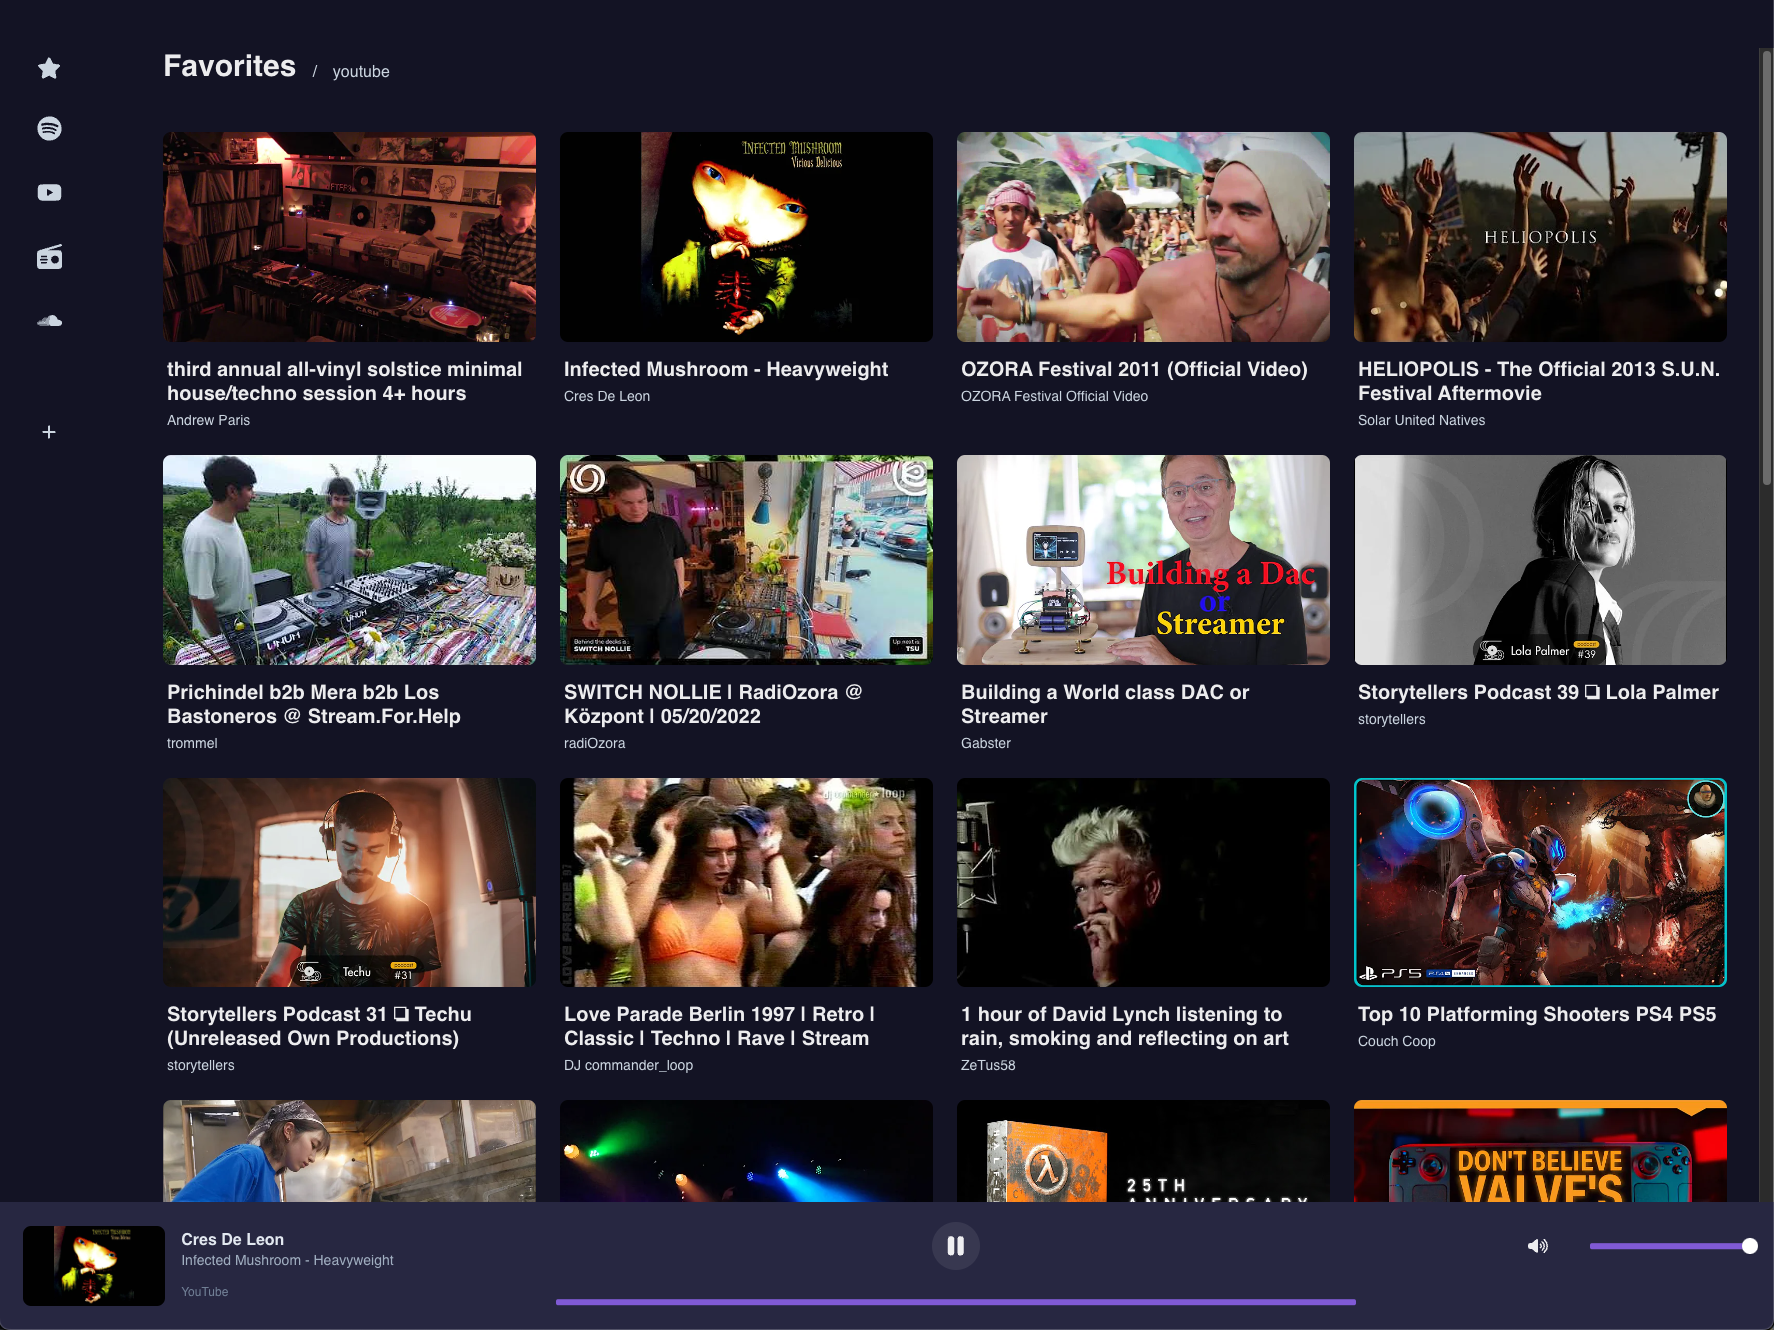
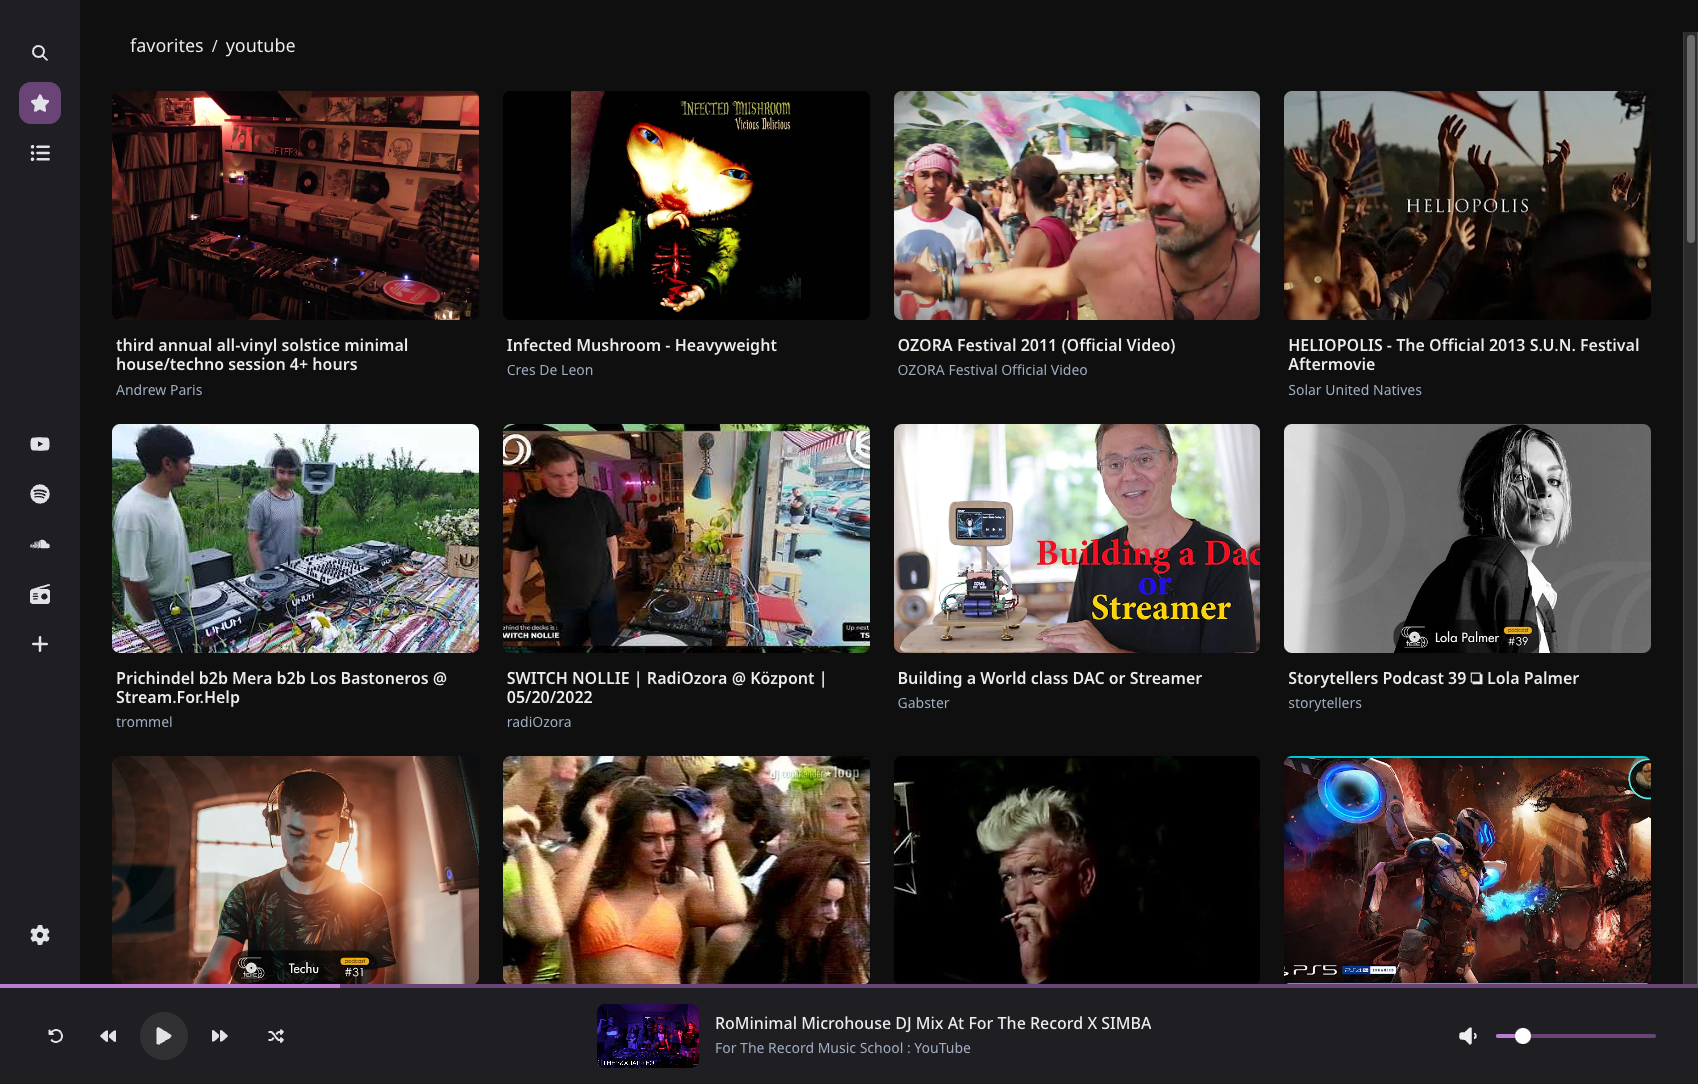
chore: tweak sizes, fonts, grid

diff --git a/src/ui/sidebar/Sidebar.tsx b/src/ui/sidebar/Sidebar.tsx
@@ -1,28 +1,65 @@
 import { Flex, IconButton } from '@chakra-ui/react'
 import { FunctionComponent } from 'react'
-import { FaGear, FaStar } from 'react-icons/fa6'
+import { FaGear, FaListUl, FaMagnifyingGlass, FaStar } from 'react-icons/fa6'
 import { MediaSources } from './MediaSources'
 
 export const Sidebar: FunctionComponent<unknown> = () => {
   return (
     <Flex
       direction={'column'}
+      align={'center'}
       px={'.75rem'}
-      pt={'5rem'}
+      pt={'2rem'}
       h={'full'}
       w={'5rem'}
-      minW={0}
+      gap={'.5rem'}
+      justify={'space-between'}
       bg={'#1F1F23'}
     >
-      <IconButton
-        aria-label="Home"
-        variant="ghost"
-        border="none"
-        fontSize={'1.25rem'}
-        color={'#E1E2E7'}
-        size="lg"
-        icon={<FaStar />}
-      />
+      <Flex direction={'column'} gap={'.5rem'} flexGrow={1}>
+        <IconButton
+          aria-label="Home"
+          variant="ghost"
+          border="none"
+          fontSize={'1rem'}
+          color={'#E1E2E7'}
+          h={'2.625rem'}
+          w={'2.625rem'}
+          rounded={'.75rem'}
+          icon={<FaMagnifyingGlass />}
+          _focus={{ outline: 'none' }}
+        />
+
+        <IconButton
+          aria-label="Home"
+          isActive
+          variant="ghost"
+          border="none"
+          fontSize={'1.25rem'}
+          color={'#E1E2E7'}
+          h={'2.625rem'}
+          w={'2.625rem'}
+          rounded={'.75rem'}
+          icon={<FaStar />}
+          _focus={{ outline: 'none' }}
+          _active={{
+            bg: '#6A4477',
+          }}
+        />
+
+        <IconButton
+          aria-label="Home"
+          variant="ghost"
+          border="none"
+          fontSize={'1.25rem'}
+          color={'#E1E2E7'}
+          h={'2.625rem'}
+          w={'2.625rem'}
+          rounded={'.75rem'}
+          icon={<FaListUl />}
+          _focus={{ outline: 'none' }}
+        />
+      </Flex>
 
       <MediaSources />
 
@@ -30,7 +67,7 @@ export const Sidebar: FunctionComponent<unknown> = () => {
         direction={'column'}
         flexGrow={1}
         justifyContent={'end'}
-        pb={'4rem'}
+        pb={'2rem'}
       >
         <IconButton
           aria-label="Home"
@@ -38,7 +75,10 @@ export const Sidebar: FunctionComponent<unknown> = () => {
           border="none"
           fontSize={'1.25rem'}
           color={'#E1E2E7'}
-          size="lg"
+          h={'2.625rem'}
+          w={'2.625rem'}
+          rounded={'.75rem'}
+          _focus={{ outline: 'none' }}
           icon={<FaGear />}
         />
       </Flex>

diff --git a/src/ui/sidebar/MediaSources.tsx b/src/ui/sidebar/MediaSources.tsx
@@ -32,8 +32,11 @@ export const MediaSources: FunctionComponent<MediaSourcesProps> = (_props) => {
         border="none"
         fontSize={'1.25rem'}
         color={'#E1E2E7'}
-        size="lg"
+        h={'2.625rem'}
+        w={'2.625rem'}
+        rounded={'.75rem'}
         icon={<FaYoutube />}
+        _focus={{ outline: 'none' }}
       />
 
       <IconButton
@@ -42,7 +45,10 @@ export const MediaSources: FunctionComponent<MediaSourcesProps> = (_props) => {
         border="none"
         fontSize={'1.25rem'}
         color={'#E1E2E7'}
-        size="lg"
+        h={'2.625rem'}
+        w={'2.625rem'}
+        rounded={'.75rem'}
+        _focus={{ outline: 'none' }}
         icon={<FaSpotify />}
       />
 
@@ -52,7 +58,10 @@ export const MediaSources: FunctionComponent<MediaSourcesProps> = (_props) => {
         border="none"
         color={'#E1E2E7'}
         fontSize={'1.25rem'}
-        size="lg"
+        h={'2.625rem'}
+        w={'2.625rem'}
+        rounded={'.75rem'}
+        _focus={{ outline: 'none' }}
         icon={<FaSoundcloud />}
       />
 
@@ -62,7 +71,10 @@ export const MediaSources: FunctionComponent<MediaSourcesProps> = (_props) => {
         border="none"
         fontSize={'1.25rem'}
         color={'#E1E2E7'}
-        size="lg"
+        h={'2.625rem'}
+        w={'2.625rem'}
+        rounded={'.75rem'}
+        _focus={{ outline: 'none' }}
         icon={<FaRadio />}
       />
 
@@ -73,7 +85,10 @@ export const MediaSources: FunctionComponent<MediaSourcesProps> = (_props) => {
         border="none"
         fontSize={'1.25rem'}
         color={'#E1E2E7'}
-        size="lg"
+        h={'2.625rem'}
+        w={'2.625rem'}
+        rounded={'.75rem'}
+        _focus={{ outline: 'none' }}
         icon={<FaPlus />}
       />
     </Box>

diff --git a/src/ui/focus-player/FocusedPlayer.tsx b/src/ui/focus-player/FocusedPlayer.tsx
@@ -43,20 +43,22 @@ export const FocusedPlayer: FunctionComponent<FocusPlayerProps> = (_props) => {
 
       <Box
         position={'absolute'}
-        width={'clamp(150px, 15vw, 300px)'}
-        left={'calc(50% - (clamp(150px, 15vw, 300px) / 2))'}
+        width={'clamp(40px, 15vw, 100px)'}
+        left={'calc(50% - (clamp(40px, 15vw, 100px) / 2))'}
         top={isLayoutInline ? '.5rem' : '1rem'}
-        height={'2rem'}
+        height={'3rem'}
         px={'1rem'}
         rounded={'full'}
-        _hover={{ cursor: 'pointer' }}
+        opacity={0.4}
+        transition={'opacity .2s ease'}
+        _hover={{ cursor: 'pointer', opacity: 0.8 }}
         _after={{
           content: '""',
           width: 'full',
-          marginTop: '.75rem',
-          height: '.5rem',
+          marginTop: '1.35rem',
+          height: '.35rem',
           display: 'block',
-          bg: '#23252875',
+          bg: '#ffffff',
           rounded: 'full',
         }}
         onClick={showDockedPlayer}

diff --git a/src/pages/dashboard/Section.tsx b/src/pages/dashboard/Section.tsx
@@ -27,7 +27,7 @@ export const Section: FunctionComponent<SectionProps> = ({
 
   const columnSize = useMemo(() => {
     if (isXLScreen) return 'minmax(300px, 1fr)'
-    return 'minmax(240px, 1fr)'
+    return 'minmax(200px, 1fr)'
   }, [isXLScreen])
 
   return (
@@ -87,17 +87,16 @@ export const Section: FunctionComponent<SectionProps> = ({
                   as="h3"
                   size="md"
                   fontWeight={'semibold'}
-                  fontSize={'clamp(1rem, 1.2vw, 1.25rem)'}
+                  fontSize={'1rem'}
                   noOfLines={3}
-                  color={'#E0E0E0'}
                 >
                   {item.title}
                 </Heading>
 
                 <Text
                   as="p"
-                  color={'#BDBDBD'}
-                  fontSize={'sm'}
+                  color="gray.400"
+                  fontSize={'.875rem'}
                   fontWeight={'normal'}
                 >
                   {item.artist}

diff --git a/src/ui/player/PlaybackMeta.tsx b/src/ui/player/PlaybackMeta.tsx
@@ -36,7 +36,8 @@ export const PlaybackMeta: FunctionComponent<PlaybackMetaProps> = ({
 
       <Flex
         flexDirection={'column'}
-        justifyContent={'space-between'}
+        justifyContent={'center'}
+        gap={'.25rem'}
         maxW={'54ch'}
         h={'full'}
         textOverflow={'ellipsis'}

diff --git a/src/pages/dashboard/Dashboard.tsx b/src/pages/dashboard/Dashboard.tsx
@@ -56,7 +56,7 @@ export const Dashboard: FunctionComponent<DashboardProps> = (_props) => {
     <Flex
       minH={0}
       overflow={'auto'}
-      pr={'1rem'}
+      px={'2rem'}
       pb={'calc(100% / 4)'}
       w={'full'}
       flexDirection={'column'}
